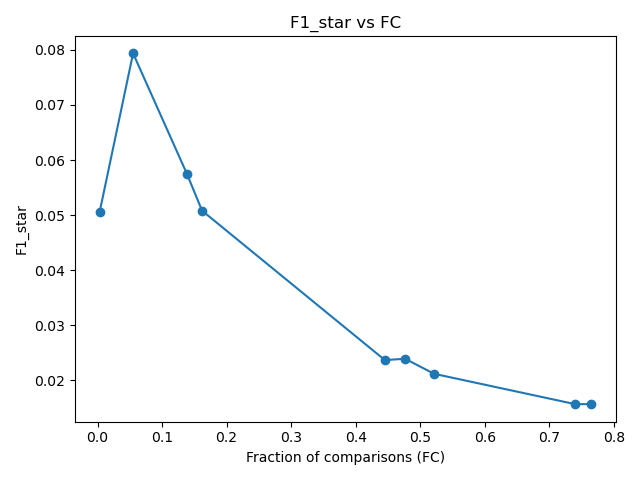
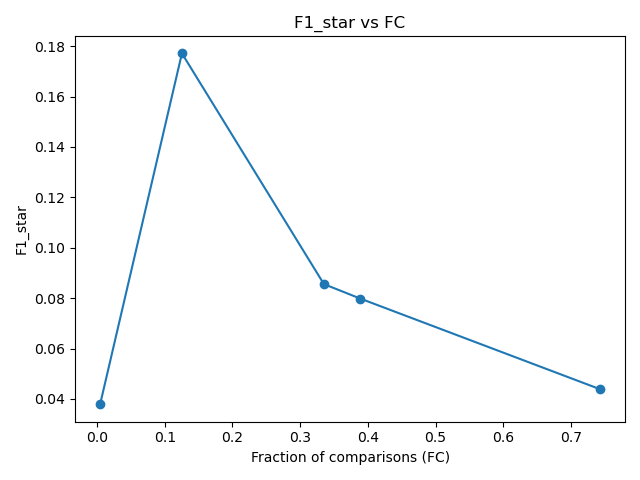
new lsh optimisation and minor tweaks

diff --git a/src/main.py b/src/main.py
@@ -5,6 +5,7 @@ import pandas as pd
 import matplotlib.pyplot as plt
 import os
 import time
+import random
 from concurrent.futures import ProcessPoolExecutor, as_completed
 
 
@@ -19,8 +20,9 @@ from evaluation.curves import eval_full_model_for_lsh_configs
 def run_single_bootstrap(raw_data,
                          seed,
                          num_perm=128,
-                         lsh_max_FC=0.85):
-
+                         lsh_min_PC=0.9):
+    
+    random.seed(seed)
     np.random.seed(seed)
     # --- Prepare datasets (this already does a bootstrap split internally) ---
     datasets = prepare_datasets(raw_data, seed=seed)
@@ -45,7 +47,7 @@ def run_single_bootstrap(raw_data,
         brand_signatures=brand_signatures_train,
         data=raw_data,
         num_perm=num_perm,
-        max_FC=lsh_max_FC,
+        min_PC=lsh_min_PC,
     )
     b, r = best_lsh_params
     print(f"[Bootstrap] Best LSH params: b={b}, r={r}")
@@ -65,7 +67,7 @@ def run_single_bootstrap(raw_data,
         **small_brand_candidates_train,
     }
 
-    train_clusters = set(data_train.keys())
+    train_clusters = sorted(set(data_train.keys()))
 
     # --- MSM tuning on TRAIN ---
     best_msm_params, best_msm_metrics = tune_msm_params(
@@ -147,7 +149,7 @@ def main(args):
         raw_data = dict(list(raw_data.items())[:args.max_clusters])
 
 
-    num_perm = 240
+    num_perm = 120
     all_results = []
 
     # ---- SEQUENTIAL VERSION (fallback / n_jobs_bootstrap=1) ----
@@ -159,7 +161,7 @@ def main(args):
                 raw_data,
                 seed,
                 num_perm,
-                args.lsh_max_FC,
+                args.lsh_min_PC,
             )
             all_results.append(res)
 
@@ -174,7 +176,7 @@ def main(args):
                     raw_data,      
                     s,             
                     num_perm,      
-                    args.lsh_max_FC,  
+                    args.lsh_min_PC,  
                 ): s
                 for s in seeds
             }
@@ -273,15 +275,15 @@ def main(args):
 if __name__ == "__main__":
     parser = argparse.ArgumentParser()
     parser.add_argument("--path", default="data/TVs-all-merged.json")
-    parser.add_argument("--bootstraps", type=int, default=21,
+    parser.add_argument("--bootstraps", type=int, default=5,
                         help="Number of bootstrap repetitions.")
     parser.add_argument("--seed", type=int, default=123,
                         help="Base random seed.")
-    parser.add_argument("--lsh_max_FC", type=float, default=0.80,
-                        help="Maximum allowed fraction of comparisons for LSH tuning.")
+    parser.add_argument("--lsh_min_PC", type=float, default=0.8,
+                        help="Minimum allowed ratio of true duplicates retained after LSH.")
     parser.add_argument("--max_clusters", type=int, default=None,
                         help="If set, use only the first N clusters for quick runs.")
-    parser.add_argument("--n_jobs_bootstrap", type=int, default=7,
+    parser.add_argument("--n_jobs_bootstrap", type=int, default=5,
                         help="Number of processes to use for parallel bootstraps.")
     args = parser.parse_args()
     start = time.perf_counter()

diff --git a/src/evaluation/curves.py b/src/evaluation/curves.py
@@ -26,20 +26,18 @@ def eval_full_model_for_lsh_configs(
 
     rows: List[Dict[str, Any]] = []
 
-    # We will vary k_eff between num_perm - max_delta and num_perm + max_delta,
+    # vary k_eff between num_perm - max_delta and num_perm + max_delta,
     # but LSH only uses as many rows as we actually give it in signatures.
     # For k_eff < num_perm we just slice the first k_eff rows.
     # (For k_eff > num_perm we skip, because we don't have that many rows.)
-    k_candidates = range(num_perm - max_delta, num_perm + max_delta + 1)
+    k_candidates = range(num_perm - max_delta, num_perm + 1)
 
     for k_eff in k_candidates:
         if k_eff <= 0:
             continue
         if k_eff > num_perm:
-            # we only have num_perm rows in the signatures
             continue
 
-        # Factor pairs for this effective k
         for b, r in factor_pairs(k_eff):
             if b * r != k_eff:
                 continue
@@ -48,7 +46,6 @@ def eval_full_model_for_lsh_configs(
             brand_sigs_k: Dict[str, Tuple[List[str], np.ndarray]] = {}
             for brand, (offer_ids, sigs) in brand_signatures_test.items():
                 if sigs.shape[0] < k_eff:
-                    # not enough rows; skip this brand for this k_eff
                     continue
                 brand_sigs_k[brand] = (offer_ids, sigs[:k_eff, :])
 
@@ -62,8 +59,7 @@ def eval_full_model_for_lsh_configs(
                 b=b,
                 r=r,
             )
-            # These *always* exist because evaluate_lsh_global defines them
-            FC = lsh_metrics["FC"]
+            
             PQ = lsh_metrics["PQ"]
             PC = lsh_metrics["PC"]
             F1_star = lsh_metrics["F1*"]
@@ -81,6 +77,24 @@ def eval_full_model_for_lsh_configs(
                 **brand_lsh_candidates,
                 **small_brand_candidates,
             }
+
+            # # numerator: all candidate pairs across all brands
+            total_cand = sum(len(pairs) for pairs in brand_candidates.values())
+
+            # denominator: all possible pairs per brand, summed
+            total_possible = 0
+
+            for brand, (offer_ids, _) in brand_sigs_k.items():
+                n = len(offer_ids)
+                if n >= 2:
+                    total_possible += n * (n - 1) // 2
+            
+            for brand, items in small_brand_offers_test.items():
+                n = len(items)
+                if n >= 2:
+                    total_possible += n * (n - 1) // 2
+
+            FC = total_cand / total_possible if total_possible > 0 else 0.0
 
             # --- Run MSM with *fixed* params on these candidates ---
             msm_metrics = run_msm_and_evaluate(

diff --git a/src/preprocessing/cleaning.py b/src/preprocessing/cleaning.py
@@ -115,25 +115,25 @@ def annotate_offers_with_brand(data):
     return data
 
 CLEAN_MAP_MW = {
-    " inch ": [
+    "inch ": [
         "inches", "inch", "\"", "”", "'", "-inch"
     ],
-    " hz ": [
+    "hz ": [
         "hertz", "hz", "hz."
     ],
-    " lb ": [
+    "lb ": [
         "pounds", "pound", "lbs.", "lbs", "lb.", "lb"
     ],
-    " kg ": [
+    "kg ": [
         "kg.", "kg", "kgs", "kilograms", "kilogram", "kg)", "kg )", "Kg", "Kg.", "Kgs"
     ],
-    " w ": [
+    "w ": [
         "watts", "watt", "w.", "w"
     ],
-    " cd/m2 ": [
+    "cd/m2 ": [
         "cd/mÂ²", "cd/m²", "cd/m2", "cd / m2", "cd / mÂ²", "cd / m²"
     ],
-    " deg ": [
+    "deg ": [
         "°", "º", "&#176;", "degrees", "degree"
     ],
 }
@@ -229,14 +229,14 @@ def keep_only_numeric_features(cleaned_data):
 
 def bootstrap_split_clusters(data, rng=None):
     if rng is None:
-        rng = np.random.default_rng()
-    cluster_ids = list(data.keys())
+        rng = np.random.default_rng(123)
+    cluster_ids = sorted(data.keys())
     N = len(cluster_ids)
     sample_indices = rng.integers(low=0, high=N, size=N, endpoint=False)
     bootstrap_ids = [cluster_ids[i] for i in sample_indices]
-    train_ids = set(bootstrap_ids)
-    test_ids = set(cluster_ids) - train_ids
-    assert train_ids.isdisjoint(test_ids)
+    train_ids = sorted(set(bootstrap_ids))
+    test_ids = sorted(set(cluster_ids) - set(train_ids))
+    assert set(train_ids).isdisjoint(set(test_ids))
     train_clusters = {cid: data[cid] for cid in train_ids}
     test_clusters = {cid: data[cid] for cid in test_ids}
     return train_clusters, test_clusters
@@ -252,8 +252,8 @@ def keep_only_features_brand_and_title(data):
             offer["featuresMap"] = features_map
             offer["brand"] = brand
     return data
-
-MODEL_WORD_PATTERN = re.compile(r"\b(?=\w*[a-zA-Z])(?=\w*\d)[a-zA-Z0-9-]+\b")
+# r"\b(?=\w*[a-zA-Z])(?=\w*\d)[a-zA-Z0-9-]+\b"
+MODEL_WORD_PATTERN = re.compile(r"\b(?=\w*\d)[a-zA-Z0-9-]+\b")
 
 def extract_title_model_words(title: str):
     if not isinstance(title, str):
@@ -313,9 +313,9 @@ def run(data):
     data = annotate_offers_with_brand(copy.deepcopy(data))
 
     cleaned_dups, cleaned_single = clean_data_optimized(data)
-
-    dups_train, dups_test = bootstrap_split_clusters(cleaned_dups)
-    singles_train, singles_test = bootstrap_split_clusters(cleaned_single)
+    rng = np.random.default_rng(123)
+    dups_train, dups_test = bootstrap_split_clusters(cleaned_dups, rng=rng)
+    singles_train, singles_test = bootstrap_split_clusters(cleaned_single, rng=rng)
 
     train = {**dups_train, **singles_train}
     test  = {**dups_test,  **singles_test}

diff --git a/src/evaluation/lsh_eval.py b/src/evaluation/lsh_eval.py
@@ -36,6 +36,7 @@ def evaluate_lsh_global(brand_signatures, data, b, r):
     total_cand = 0         
     total_possible = 0     
 
+    total_offers = 0
     for _, (offer_ids, sigs) in brand_signatures.items():
         k, n = sigs.shape
         if n < 2:
@@ -43,6 +44,8 @@ def evaluate_lsh_global(brand_signatures, data, b, r):
         if k != b * r:
             raise ValueError(f"k={k} but b*r={b*r}")
         pairs, _ = lsh_for_brand_block(offer_ids, sigs, b, r)
+        
+        total_offers += len(offer_ids)
 
         m = evaluate_lsh_pairs_for_brand(
             pairs_offer_ids=pairs,
@@ -55,6 +58,7 @@ def evaluate_lsh_global(brand_signatures, data, b, r):
         total_possible += m["total_possible_pairs"]
         total_cand += len(pairs)
 
+    global_total_possible = total_offers * (total_offers-1) // 2
     PC = total_tp / total_true if total_true else 0.0     
     PQ = total_tp / total_cand if total_cand else 0.0    
     FC = total_cand / total_possible if total_possible else 0.0  
@@ -62,7 +66,7 @@ def evaluate_lsh_global(brand_signatures, data, b, r):
     F1_star = 2 * PQ * PC / (PQ + PC) if (PQ + PC) else 0.0
 
     print(f"(b,r): ({b},{r}), FC: {FC}, PC: {PC}, PQ: {PQ}")
-
+    #print("total pssible / global total possible", total_possible/global_total_possible)
     return {
         "TP": total_tp,
         "total_true": total_true,
@@ -75,18 +79,18 @@ def evaluate_lsh_global(brand_signatures, data, b, r):
     }
 
 
-def tune_lsh_parameters(brand_signatures, data, num_perm, max_FC=0.8):
+def tune_lsh_parameters(brand_signatures, data, num_perm, min_PC=0.9):
     best_params = (64, 2)
     best_metrics = None
-    best_PC = -1.0
+    best_FC = 1.0
 
     for b, r in factor_pairs(num_perm):
         if b * r != num_perm:
             continue
         m = evaluate_lsh_global(brand_signatures, data, b, r)
 
-        if r != 1 and m["FC"] < max_FC and m["PC"] > best_PC:
-            best_PC = m["PC"]
+        if m["FC"] < best_FC and m["PC"] > min_PC:
+            best_FC = m["FC"]
             best_params = (b, r)
             best_metrics = m
 

diff --git a/src/lsh/minhashing.py b/src/lsh/minhashing.py
@@ -101,20 +101,23 @@ def process_brand_block(
     offer_ids = list(product_shingle_sets.keys())
     n = len(offer_ids)
     sigs = np.empty((num_perm, n), dtype=np.uint32)
-
+    max_shingle = -1
     for j, oid in enumerate(offer_ids):
+        max_shingle_oid = max(product_shingle_sets.get(oid))
+        if max_shingle_oid > max_shingle:
+            max_shingle = max_shingle_oid
         sigs[:, j] = compute_minhash_signature(
             product_shingle_sets[oid], A, B, P
         )
-
-    return offer_ids, sigs
+    print("max_shingle: ", max_shingle)
+    return offer_ids, sigs,
 
 
 def build_minhash_for_brands(
     brand_blocks: Dict[str, List[Tuple[str, dict]]],
     num_perm: int = 128,
     seed: int | None = None,
-    min_offers_for_lsh: int = 4,
+    min_offers_for_lsh: int = 0,
 ):
     rng = np.random.default_rng(seed)
     A = rng.integers(1, PRIME_32, size=num_perm, dtype=np.uint32)
@@ -133,6 +136,6 @@ def build_minhash_for_brands(
             items, num_perm, A, B, PRIME_32
         )
         brand_signatures[brand] = (offer_ids, sigs)
-
+        print("Brand: ", brand)
     params = {"NUM_PERM": num_perm, "P": PRIME_32, "A": A, "B": B}
     return brand_signatures, small_brand_offers, params

diff --git a/src/msm/msm.py b/src/msm/msm.py
@@ -339,7 +339,6 @@ def msm_pair_dissimilarity(product_1,
 
 
 def msm_clustering_for_brand(
-    brand,
     brands,
     candidate_pairs,
     data,
@@ -369,7 +368,7 @@ def msm_clustering_for_brand(
             p1, p2, brands=brands, gamma=gamma, mu=mu, alpha=alpha
         )
         if d > 0.4:
-            d = 1.0
+            d = 100.0
         dissimilarity.loc[oid1, oid2] = d
         dissimilarity.loc[oid2, oid1] = d
 
@@ -407,7 +406,6 @@ def msm_for_all_brands(
 
     for brand, pairs in brand_candidates.items():
         clusters, dissim = msm_clustering_for_brand(
-            brand=brand,
             brands=brands,
             candidate_pairs=pairs,
             data=data,
